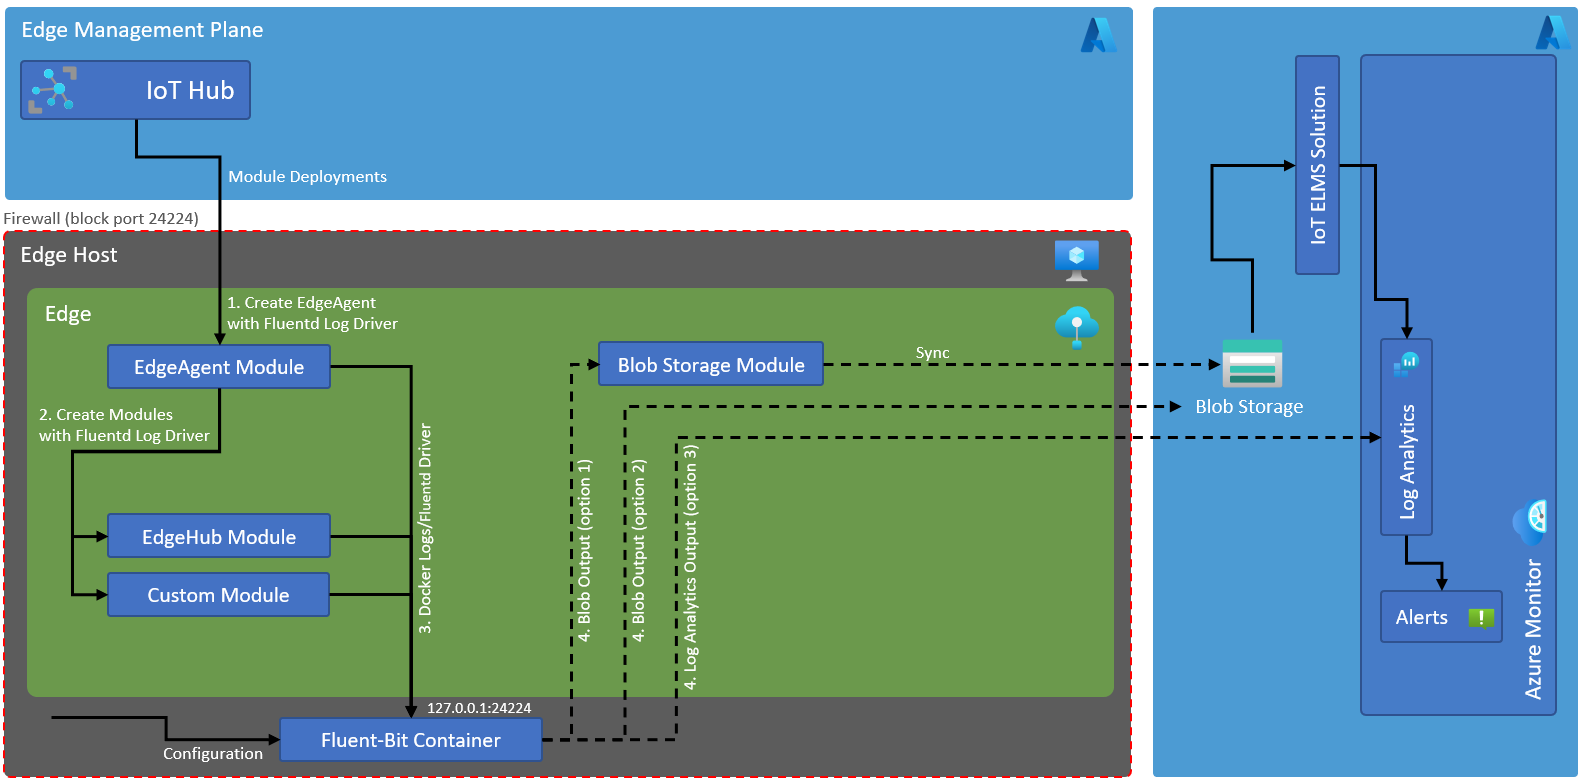
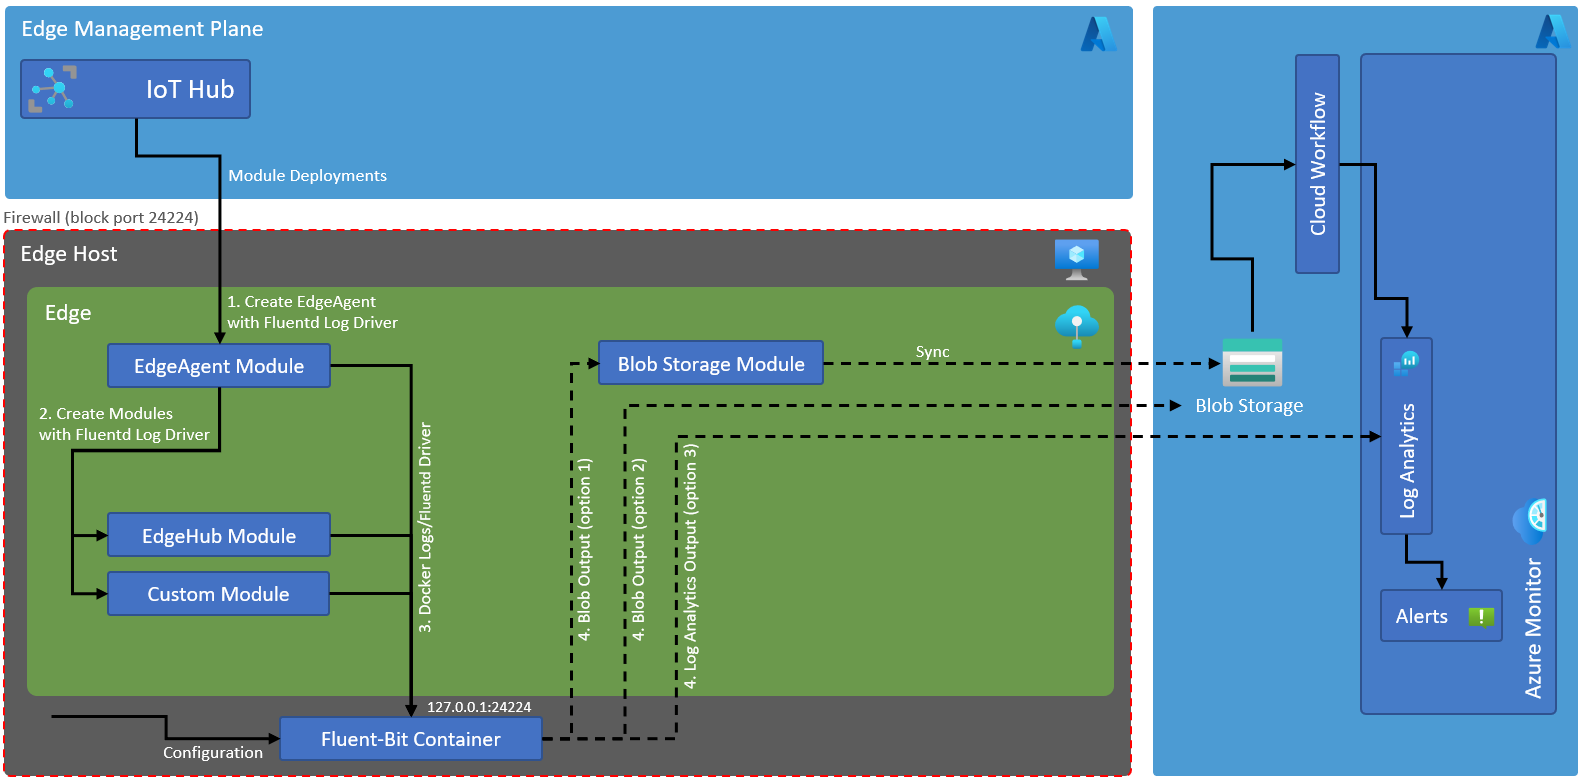
Renamed ELMS to Cloud Workload

diff --git a/README.md b/README.md
@@ -68,6 +68,6 @@ Here are some of the nuances you should be aware of when considering this soluti
 
 ## Other Solutions and Options
 
-1. Using pull model approach, you can use a direct method on Edge Agent system module, it does require edge to be connected to IoT Hub as the direct method invocation for Edge Agent can only happen via service side. An implementation of this Edge Logging and Monitoring Soliution (ELMS) is [available](https://github.com/Azure-Samples/iotedge-logging-and-monitoring-solution) in the official Azure samples repo which also covers Premetheus based metrics collection.
-2. We have a metrics collector edge module available as well which can send metrics to either IoTHub or Log Analytics worksapce directly, this module can be either used independently or as part of ELMS solution mentioned above. More details on metrics monitoring are available [here](https://docs.microsoft.com/en-gb/azure/iot-edge/how-to-collect-and-transport-metrics?view=iotedge-2020-11)
+1. Using pull model approach, you can use a direct method on Edge Agent system module, it does require edge to be connected to IoT Hub as the direct method invocation for Edge Agent can only happen via service side. An implementation of this cloud workflow is [available](https://github.com/Azure-Samples/iotedge-logging-and-monitoring-solution) in the official Azure samples repo which also covers Premetheus based metrics collection.
+2. We have a metrics collector edge module available as well which can send metrics to either IoTHub or Log Analytics worksapce directly, this module can be either used independently or as part of cloud workflow solution mentioned above. More details on metrics monitoring are available [here](https://docs.microsoft.com/en-gb/azure/iot-edge/how-to-collect-and-transport-metrics?view=iotedge-2020-11)
 3. You can use prebuilt OMS container and deploy it at edge to connect to Docker socket to stream the logs in and then store those logs to the data sink of your choice. This solution however has an inherent security implications, that is, once you connect to Docker socket you [effectively have root access](https://docs.docker.com/engine/install/linux-postinstall/) to the host machine as Docker engine configured by edge installation by default runs with a root security context. This may result in an increased surface attack area for the hosts machines in the edge network (OT network) where often security is not mature enough.
